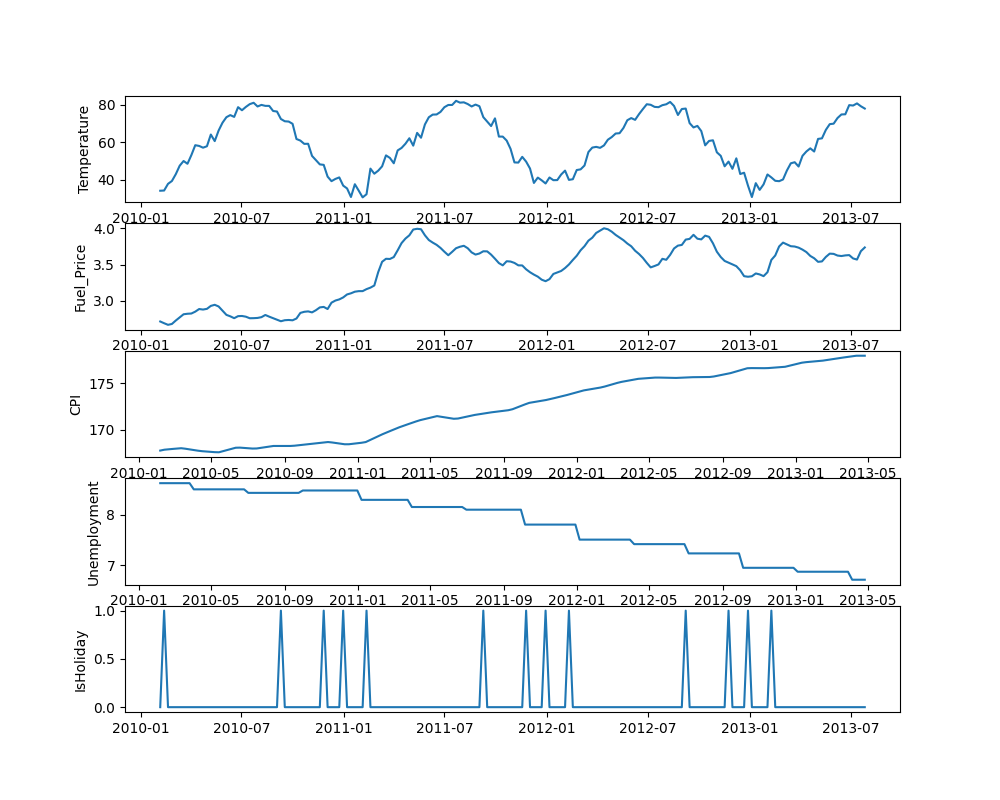
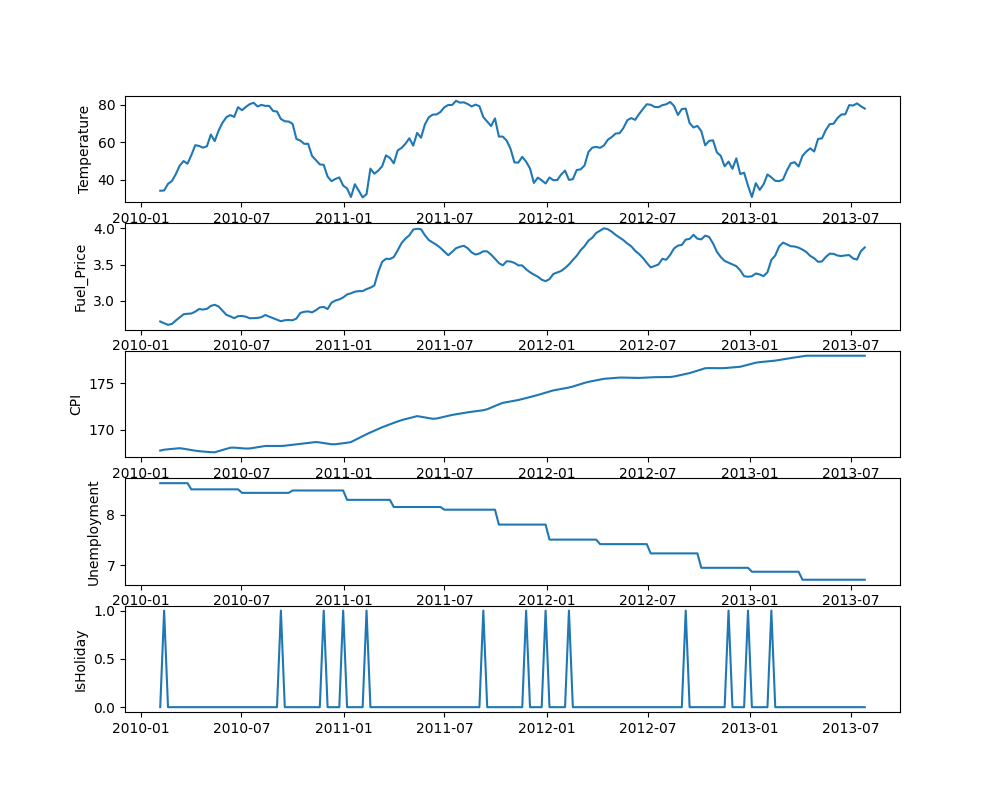
ds assignment commit

diff --git a/IEMS5726 Data Science in Practice/IEMS5726_Assignment4_1155182964.py b/IEMS5726 Data Science in Practice/IEMS5726_Assignment4_1155182964.py
@@ -49,11 +49,10 @@ def problem_2(filenames):
     plt.grid()
 
     plt.savefig("problem2")
-    plt.show()
 
 
 # problem_2(["IEMS5726_Assignment4_Data/classA.csv", "IEMS5726_Assignment4_Data/classB.csv",
-#                  "IEMS5726_Assignment4_Data/classC.csv"]))
+#                  "IEMS5726_Assignment4_Data/classC.csv"])
 
 
 # Problem 3
@@ -81,7 +80,6 @@ def problem_3(filenames):
         plt.axis("off")
 
     plt.savefig("problem3")
-    plt.show()
 
 
 # problem_3(["IEMS5726_Assignment4_Data/paragraph1.txt", "IEMS5726_Assignment4_Data/paragraph2.txt",
@@ -103,7 +101,6 @@ def problem_4(filename, start, end, target):
     sns.lineplot(x="date", y="close", hue="Name", data=df)
     plt.grid()
     plt.savefig("problem4")
-    plt.show()
 
 
 # problem_4("IEMS5726_Assignment4_Data/all_stocks_5yr.csv", "1/1/2018", "14/1/2018", ["ABBV", "AIV", "DFS"])
@@ -127,7 +124,6 @@ def problem_5(df):
     plt.title("Passing Percentage")
     plt.ylabel('Years')
     plt.savefig("problem5")
-    plt.show()
 
 
 # problem_5(pd.DataFrame({'Boys': [67, 78], 'Girls': [72, 80], },
@@ -146,13 +142,13 @@ def problem_6(filename, start, end, column):
                                          "CPI": "mean",
                                          "Unemployment": "mean",
                                          "IsHoliday": "min"}).reset_index()
+    df_grouped = df_grouped.fillna(method='ffill')
     count_columns_ex_date = len(df_grouped.columns[1:])
     for idx, col in enumerate(df_grouped.columns[1:]):
         plt.subplot(count_columns_ex_date, 1, idx + 1)
         plt.plot(df_grouped["Date"], df_grouped[col])
         plt.ylabel(col)
     plt.savefig("problem6")
-    plt.show()
 
 
 # problem_6("IEMS5726_Assignment4_Data/Features data set.csv", "1/1/2010", "31/7/2013",
